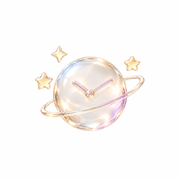
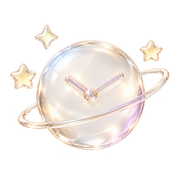
Add files via upload

Changed region(s): [[0.0556, 0.2222, 0.9444, 0.8333], [0.1944, 0.1389, 0.3333, 0.2778]]

diff --git a/firebase-sync.js b/firebase-sync.js
@@ -10,11 +10,11 @@ function renderAccount(account){const button=el('cloud-account');button.replaceC
 
 const cacheKey=()=>`orbit-cloud-${user.uid}`;
 function stash(){localStorage.setItem(cacheKey(),JSON.stringify({revision,pending,state:state.get()}))}
-function dialog(message,primary,action,secondary='',other=null,accountTools=false){document.querySelector('#cloud-dialog h2').textContent=accountTools?'로그인된 사용자':'계정 연결';el('cloud-backup').hidden=true;el('cloud-logout').hidden=!accountTools;el('cloud-message').textContent=message;el('cloud-primary').textContent=primary;el('cloud-primary').hidden=!primary;el('cloud-primary').onclick=()=>{el('cloud-dialog').close();action?.()};el('cloud-secondary').textContent=secondary;el('cloud-secondary').hidden=!secondary;el('cloud-secondary').onclick=()=>{el('cloud-dialog').close();other?.()};if(!el('cloud-dialog').open)el('cloud-dialog').showModal()}
+function dialog(message,primary,action,secondary='',other=null,accountTools=false,title='계정 연결'){document.querySelector('#cloud-dialog h2').textContent=accountTools?'로그인된 사용자':title;el('cloud-backup').hidden=true;el('cloud-logout').hidden=!accountTools;el('cloud-message').textContent=message;el('cloud-primary').textContent=primary;el('cloud-primary').hidden=!primary;el('cloud-primary').onclick=()=>{el('cloud-dialog').close();action?.()};el('cloud-secondary').textContent=secondary;el('cloud-secondary').hidden=!secondary;el('cloud-secondary').onclick=()=>{el('cloud-dialog').close();other?.()};if(!el('cloud-dialog').open)el('cloud-dialog').showModal()}
 
 function hasRecords(s){return (s.groups||[]).length||Object.values(s.data||{}).some(v=>Array.isArray(v)&&v.length)||Object.keys(s.data?.__repeat||{}).length}
 function addDeviceRecords(account,device){const result=JSON.parse(JSON.stringify(account));result.data||={};result.groups||=[];let added=false;for(const group of device.groups||[])if(!result.groups.some(g=>g.name===group.name)){result.groups.push(group);added=true}for(const [date,list] of Object.entries(device.data||{})){if(!Array.isArray(list))continue;const target=result.data[date]||=[];for(const item of list)if(!target.some(v=>v.id===item.id)){target.push(item);added=true}}for(const [id,rule] of Object.entries(device.data?.__repeat||{}))if(!result.data.__repeat?.[id]){result.data.__repeat||={};result.data.__repeat[id]=rule;added=true}return {result,added}}
-function deviceChoice(remote){const marker='orbit-device-import-'+user.uid,fingerprint=JSON.stringify(guest);if(localStorage.getItem(marker)===fingerprint)return;const merged=addDeviceRecords(state.get(),guest);if(!merged.added)return;dialog('이 기기에서 작성한 일정이 있어요. 가져올까요?','가져오기',()=>{const current=addDeviceRecords(state.get(),guest);state.set(current.result);localStorage.setItem(marker,fingerprint);window.orbitCloud.save()},'바로 시작하기',()=>localStorage.setItem(marker,fingerprint))}
+function deviceChoice(remote){const marker='orbit-device-import-'+user.uid,fingerprint=JSON.stringify(guest);if(localStorage.getItem(marker)===fingerprint)return;const merged=addDeviceRecords(state.get(),guest);if(!merged.added)return;dialog('이 기기에서 작성한 일정이 있어요. 가져올까요?','가져오기',()=>{const current=addDeviceRecords(state.get(),guest);state.set(current.result);localStorage.setItem(marker,fingerprint);window.orbitCloud.save()},'',null,false,'계정 연동');el('cloud-dialog').addEventListener('close',()=>localStorage.setItem(marker,fingerprint),{once:true})}
 
 function applyRemote(remote){revision=remote?.revision||0;state.set(remote?.payload?JSON.parse(remote.payload):{data:{},groups:[]});stash();status('연동됨')}
 function conflict(remote){latest=remote;status('다른 기기 변경 확인 필요');dialog('다른 기기에서도 일정이 수정됐어요. 어느 기록을 사용할지 선택해 주세요. 이 기기의 기록은 선택 전에 백업할 수 있어요.','계정의 최신 기록 사용',()=>{pending=null;applyRemote(latest)},'이 기기 기록으로 계정 갱신',()=>{revision=latest?.revision||0;pending=state.get();stash();flush()})}

diff --git a/sw.js b/sw.js
@@ -1,4 +1,4 @@
-const CACHE='orbit-v212-20261012';
+const CACHE='orbit-v214-20261012';
 const ASSETS=['./','./index.html','./style.css','./app.js','./firebase-sync.js','./manifest.json','./icon-192.png','./icon-512.png','./icon-180.png','./brand-logo.png','./Dovemayo_gothic.woff2'];
 self.addEventListener('install',event=>event.waitUntil(caches.open(CACHE).then(cache=>cache.addAll(ASSETS)).then(()=>self.skipWaiting())));
 self.addEventListener('activate',event=>event.waitUntil(caches.keys().then(keys=>Promise.all(keys.filter(key=>key.startsWith('myday-')&&key!==CACHE).map(key=>caches.delete(key)))).then(()=>self.clients.claim())));
